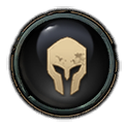
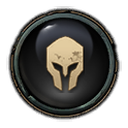
Menu medallions: Units, World Map, Abilities and Search with their glyph centred (were up to 2.5px right, Search 5px low); Search on the Heroes glass, a little greener, instead of light green

Changed region(s): [[0.3438, 0.2812, 0.6875, 0.75], [0.2812, 0.1875, 0.4375, 0.375]]

diff --git a/EVOLVED.md b/EVOLVED.md
@@ -53,12 +53,13 @@ game's world-map HUD (its sheet is `Icons/Interface/TopBar.png`), in three bands
     own Research, Spells, Empire and Item Forge buttons: their picture and glass from the same atlas, the picture
     enlarged 25% so the glyph is as big as the others'. Upstream: `TomesIcon.png`, `SpellsIcon.png`, the grey
     `EmpireIcon.png` and the info "i".
-  - `UnitsIcon.png`, `HeroesIcon.png` and `SearchIcon.png` (upstream: the Tome Units star, `HeroIcon.png` and
-    `search.png`) are the Culture Units, Heroes and Search medallions' spheres, their glyph cleared and the game's own
-    text icon (`Icons/TML/unit.png`, `unithero.png`, `inspect.png`) drawn smaller in its place.
-  - `AbilitiesIcon.png` and `WorldMapIcon.png` (upstream: the ability diamond and the Structures hammer) are the
-    game's tactical-cast star and province pin (`Icons/TML/`) in the medallions' beige, on a blank sphere made from
-    the site's other medallions.
+  - `HeroesIcon.png` (upstream: `HeroIcon.png`) is the Heroes medallion's glass, its helmet cleared and the game's own
+    `Icons/TML/unithero.png` drawn smaller in its place. `SearchIcon.png` (upstream: the light green `search.png`) is
+    the same glass a little greener, with `Icons/TML/inspect.png`.
+  - `UnitsIcon.png`, `WorldMapIcon.png` and `AbilitiesIcon.png` (upstream: the Tome Units star, the Structures hammer
+    and the ability diamond) are the game's `unit`, `province` and `casttactical` text icons (`Icons/TML/`) in the
+    medallions' beige, on a blank dark sphere made from the site's other medallions.
+  Each glyph Evolved draws is centred in its sphere; the four HUD buttons keep the game's own placement.
   The "Updated:" date is 14px (11px on a phone), a size under the dataset's name.
 No Other Database dropdown: Evolved keeps no other databases. On a phone the strip holds just the dataset and date,
 and Settings and Donate are at the foot of the ☰ menu, a drawer on the cards' panel.
